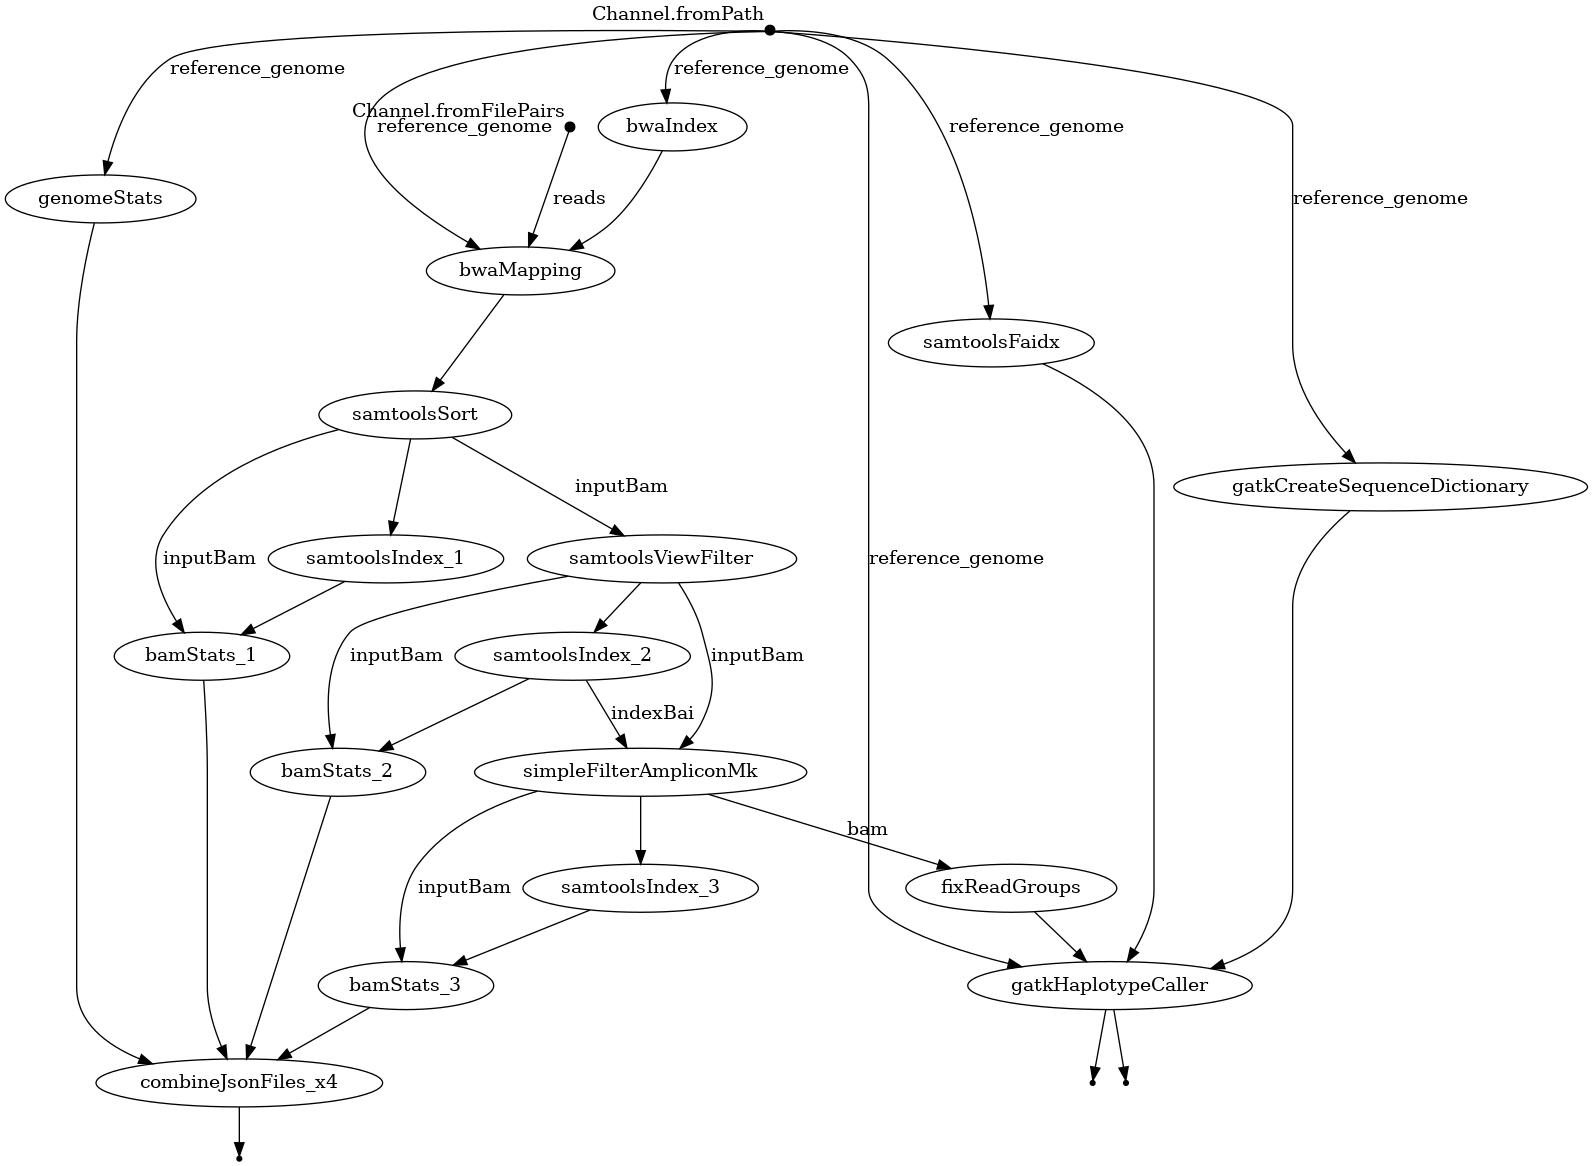
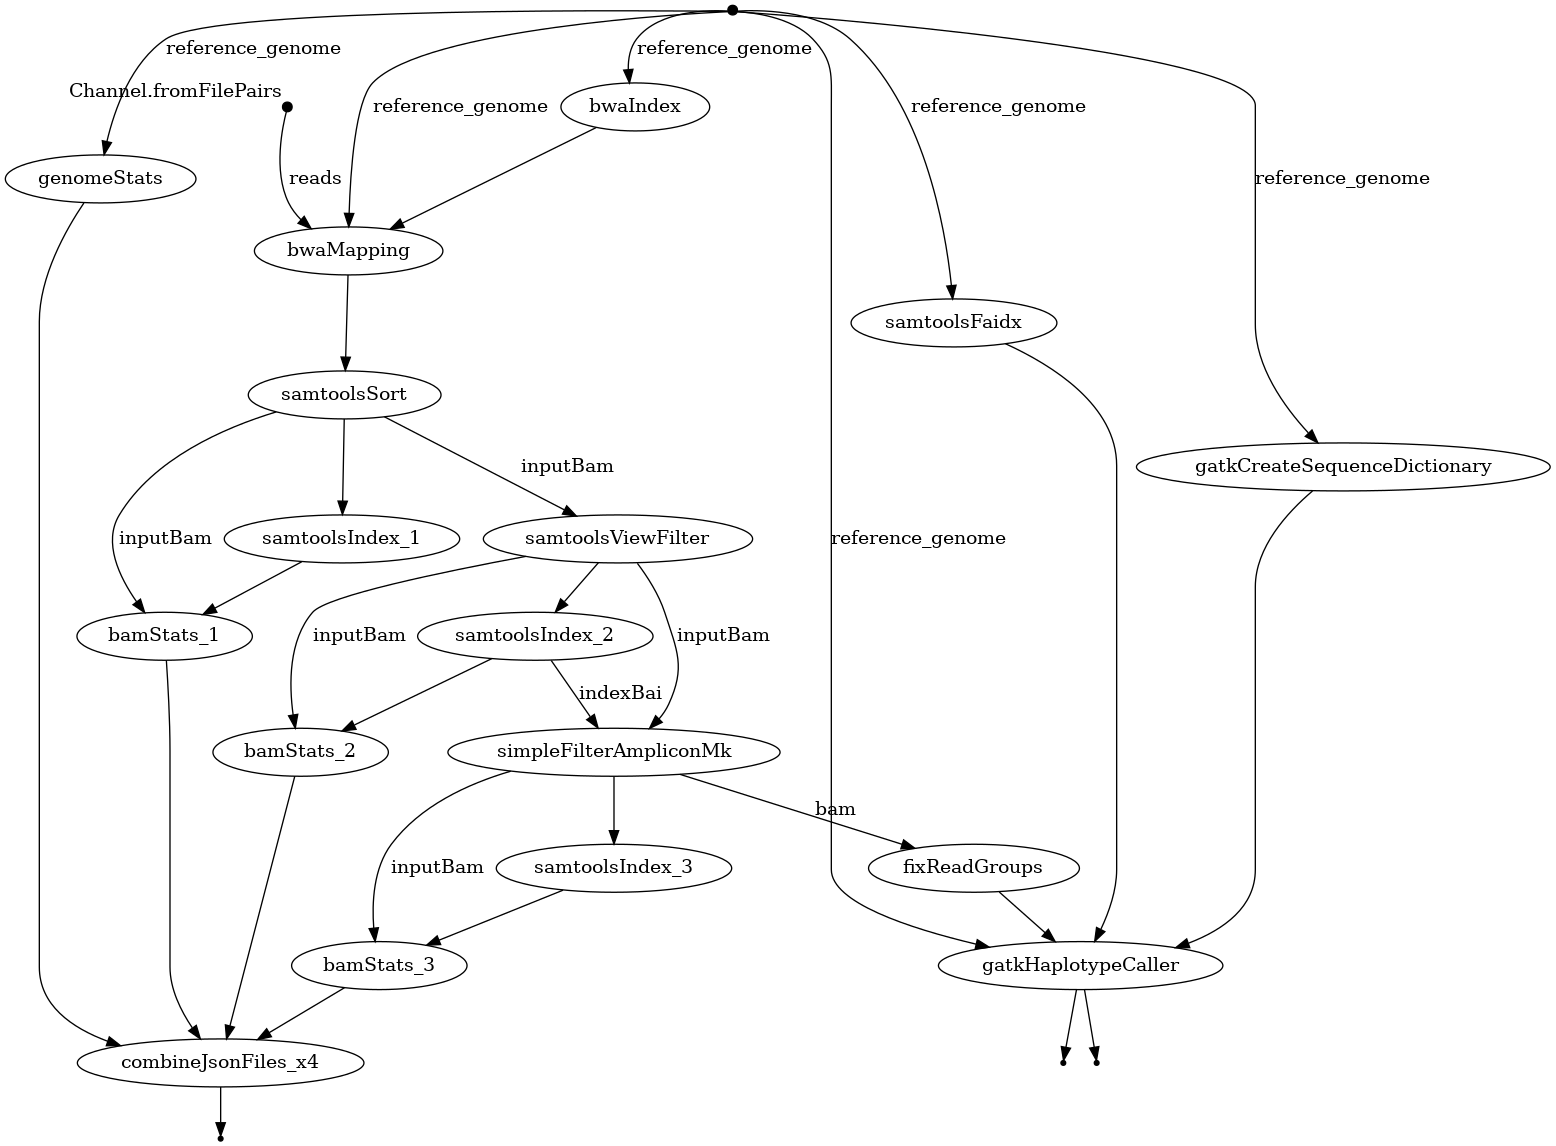
Allow multiple samples
Channel with reference genome is now /value channel/ instead of /queue channel/.
This allows to pass multiple samples into single pipeline for parallel processing.
traces and timelines added to .gitignore.

diff --git a/README.md b/README.md
@@ -1,4 +1,4 @@
-# Nextflow experimental pipeline for the analysis of the SARS-CoV-2 genome
+# Nextflow experimental pipeline for the SARS-CoV-2 WGS data
 
 This is experimental pipline used for the analysis SAR-CoV-2 genome, and exploration of the [Nextflow](https://www.nextflow.io/docs/latest/index.html) framework.
 
@@ -41,12 +41,14 @@ Edit flags in `run_nf_pipeline.sh` to adjust the run parameters.
 
 ##### Mandatory params
 - `--reference_genome` : path to the reference genome (fasta file)
-- `--reads` : path to the reads (fastq file).
+- `--reads` : path to the reads (fastq files).
  
-Reads MUST:
- - be a single path to two files.
- - be enclosed in single quotes (e.g. `'path/to/reads/*_{1,2}.fastq.gz'`).
- - be in the format `*_{1,2}.fastq.gz` (e.g. `sample1_1.fastq.gz` and `sample1_2.fastq.gz`).
+> [!IMPORTANT]
+> Reads MUST:
+>  - be a single path to one or more file **pairs**.
+>  - be enclosed in single quotes
+> Example:  `'path/to/reads/sample_*_{1,2}.fastq.gz'`
+
 
 ##### Optional params
 - `--picardPath` : path to picard jar file (default: /opt/picard/picard.jar)
